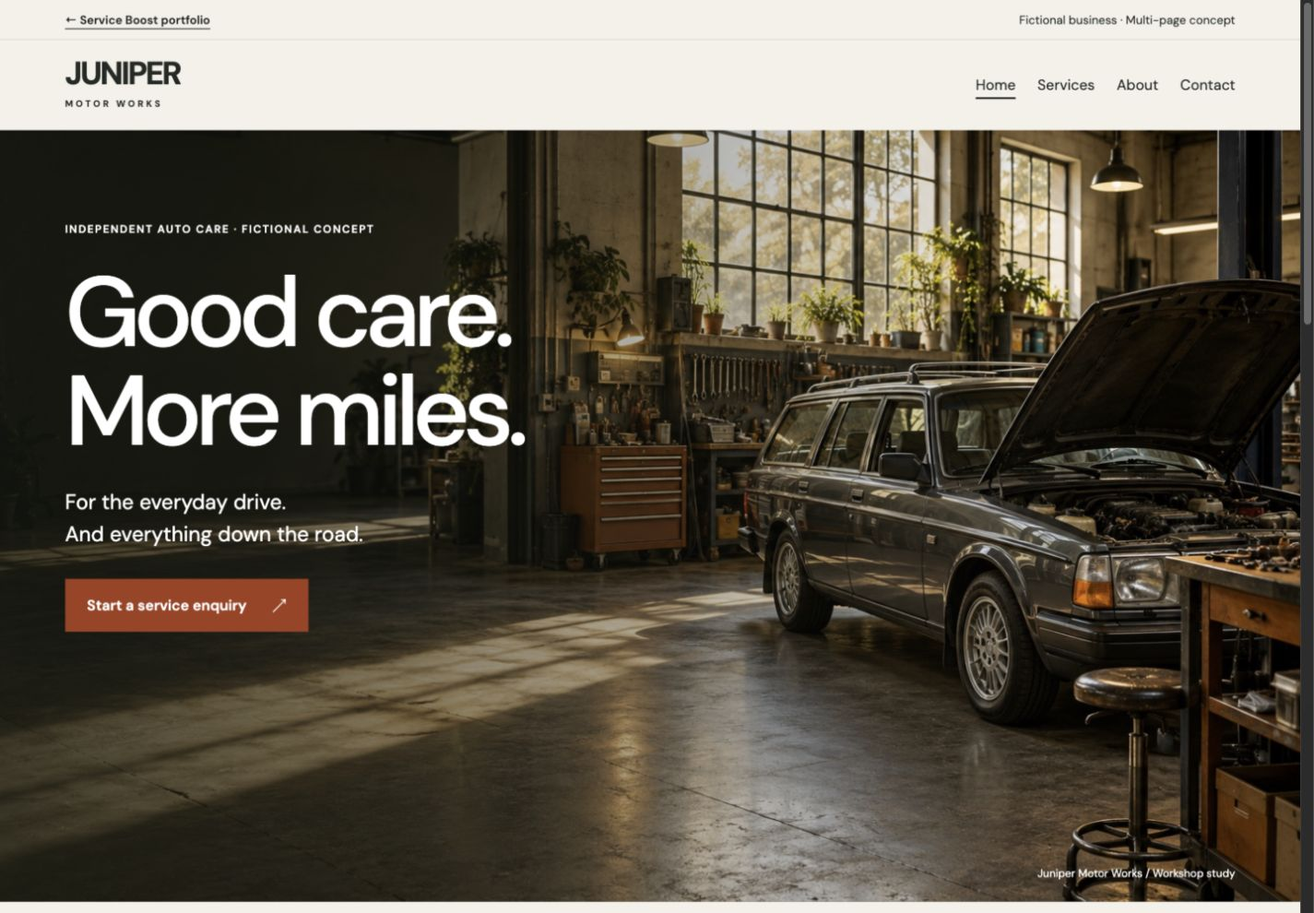
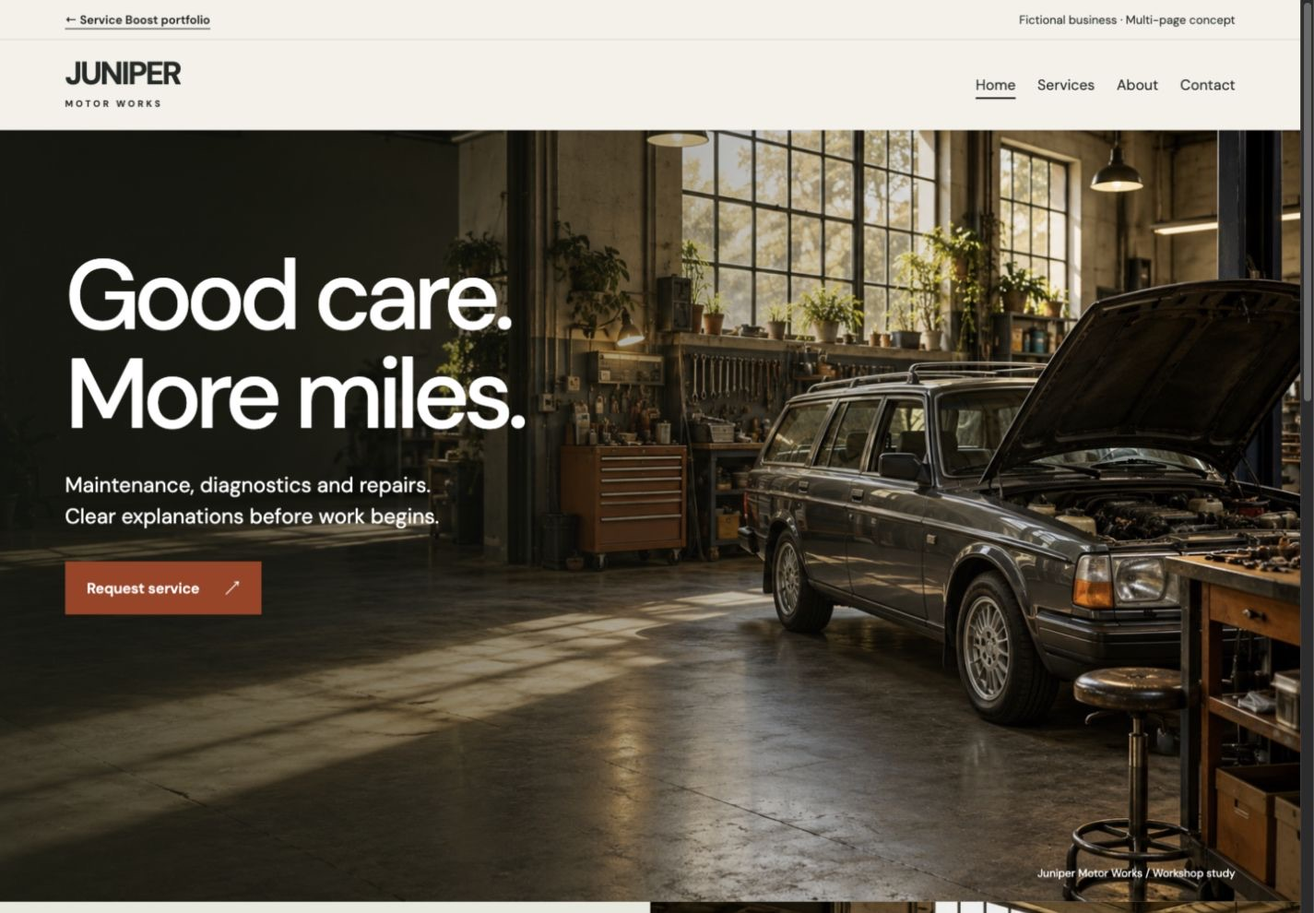
Refine Juniper request modal and add homepage portfolio carousel

diff --git a/auto-repair.css b/auto-repair.css
@@ -9,3 +9,65 @@
 @media(max-width:960px){.auto-theme .auto-header{flex-wrap:nowrap}.auto-theme .auto-header nav{order:initial;width:auto}.auto-hero{min-height:600px}.auto-contact{gap:45px}.auto-process{gap:40px}.auto-service-grid{gap:25px}}
 @media(max-width:720px){.auto-demo-bar{font-size:12px;display:block}.auto-demo-bar span{display:block;margin-top:7px}.auto-theme .auto-header{display:block;padding:16px 6% 6px}.auto-brand{font-size:30px}.auto-theme .auto-header nav{justify-content:space-between;gap:15px;margin-top:15px;font-size:15px}.auto-hero{height:calc(100svh - 208px);min-height:530px;max-height:720px}.auto-hero>img{object-position:62% center}.auto-hero:after{background:#1418118f}.auto-hero-copy{padding:38px 6% 65px}.auto-theme h1{font-size:64px}.auto-hero-copy>p:not(.auto-kicker){font-size:20px}.auto-caption{font-size:11px;left:6%;right:auto}.auto-section{padding:48px 6%}.auto-intro,.auto-process,.auto-faq,.auto-contact{grid-template-columns:1fr;gap:28px}.auto-service-grid{grid-template-columns:1fr;gap:28px}.auto-service-grid h3{margin-top:24px}.auto-service-grid p{max-width:none;margin-bottom:0}.auto-section-heading{display:block}.auto-section-heading h2{margin-bottom:20px}.auto-cta{display:block}.auto-cta .auto-button{margin-top:28px}.auto-footer{display:block;padding:40px 6%}.auto-footer p{margin:28px 0}.auto-page-intro h1{font-size:clamp(45px,11vw,64px)}.auto-page-intro>p:last-child{font-size:18px}.auto-page-intro br{display:none}.service-menu article{grid-template-columns:32px 1fr;gap:20px;padding:35px 0}.service-menu article>a{grid-column:2;justify-self:start}.service-menu h2{font-size:30px}.service-menu{padding-top:0}.auto-workshop img{height:340px}.auto-contact-detail{margin-top:32px}.auto-contact .auto-button{width:100%}.auto-theme dialog{padding:24px}.auto-theme dialog h2{font-size:30px}}
 @media(prefers-reduced-motion:reduce){.auto-hero-copy{animation:none}.auto-button{transition:none}.auto-button:hover{transform:none}}
+
+.auto-service-editorial{display:grid;grid-template-columns:1fr 1fr;background:#e6e9de}
+.auto-service-menu{padding:72px 10%}
+.auto-service-menu h2{margin:16px 0 36px}
+.auto-service-menu>a{display:flex;align-items:center;justify-content:space-between;gap:24px;border-top:1px solid #aeb6a6;padding:22px 0;text-decoration:none;transition:color .2s,padding .2s}
+.auto-service-menu>a:last-child{border-bottom:1px solid #aeb6a6}
+.auto-service-menu>a:hover{color:var(--accent);padding-left:8px}
+.auto-service-menu strong{display:block;font-size:25px;font-weight:500;letter-spacing:-.03em}
+.auto-service-menu small{display:block;font-size:16px;line-height:1.5;margin-top:6px;color:#50594e}
+.auto-service-editorial figure{position:relative;margin:0;min-height:560px;overflow:hidden}
+.auto-service-editorial img{width:100%;height:100%;position:absolute;object-fit:cover;object-position:75% center}
+.auto-service-editorial figcaption{position:absolute;bottom:0;left:0;right:0;padding:35px 28px 20px;background:linear-gradient(transparent,#141811bd);color:white;font-size:12px}
+.auto-process-simple{align-items:center;grid-template-columns:1fr 1.7fr;gap:50px}
+.auto-process-simple h2{margin:0;font-size:38px}
+.auto-process-simple ol{display:grid;grid-template-columns:repeat(3,1fr);gap:28px;list-style:none;padding:0;counter-reset:steps}
+.auto-process-simple li{padding:20px 0 0;margin:0;border-bottom:0;border-top:1px solid var(--line);counter-increment:steps}
+.auto-process-simple li:before{content:"0" counter(steps);display:block;font-size:12px;color:var(--accent);margin-bottom:18px}
+.auto-process-simple h3{font-size:20px;margin:0}
+@media(max-width:720px){.auto-service-editorial{grid-template-columns:1fr}.auto-service-menu{padding:48px 6%}.auto-service-editorial figure{min-height:340px}.auto-process-simple{grid-template-columns:1fr;gap:28px}.auto-process-simple ol{grid-template-columns:1fr;gap:0}.auto-process-simple li{display:flex;align-items:baseline;gap:20px;padding:20px 0}.auto-process-simple li:before{margin:0}.auto-process-simple h2{font-size:34px}}
+@media(prefers-reduced-motion:reduce){.auto-service-menu>a{transition:none}}
+.auto-theme .auto-request-dialog{width:min(520px,calc(100% - 32px));max-height:calc(100svh - 32px);padding:32px;border:0;background:#f4f1e9;color:#252a26;box-sizing:border-box;overflow:auto}
+.auto-request-dialog::backdrop{background:#141811b3;backdrop-filter:blur(4px)}
+.auto-theme .auto-request-dialog h2{font-size:32px;margin:0 48px 8px 0}
+.auto-request-dialog .auto-note{font-size:14px;margin:0 0 24px}
+.auto-theme .auto-modal-close{position:absolute;top:16px;right:16px;width:44px;height:44px;padding:0;background:transparent;color:#252a26;font-size:30px;border:0;cursor:pointer}
+.auto-request-dialog label{display:block;font-size:16px;margin-bottom:18px}
+.auto-request-dialog input,.auto-request-dialog select,.auto-request-dialog textarea{display:block;box-sizing:border-box;width:100%;margin-top:7px;padding:13px;font:inherit;font-size:16px;border:1px solid #adb3a5;border-radius:6px;background:#fffdf8;color:#252a26;min-height:48px}
+.auto-optional{font-size:14px;color:#50594e}
+.auto-request-dialog .auto-button{width:100%;border:0;border-radius:6px;cursor:pointer}
+.auto-request-dialog .demo-actions button{background:var(--accent);color:white;min-height:48px;border-radius:6px}
+body:has(.auto-request-dialog[open]){overflow:hidden}
+@media(max-width:720px){.auto-theme .auto-request-dialog{padding:24px}.auto-theme .auto-request-dialog h2{font-size:28px}}
+.auto-contact-entry{align-items:start;gap:7%;padding-top:48px}
+.auto-contact-entry h1{font-size:clamp(48px,5vw,76px);margin-top:22px}
+.auto-contact-entry .auto-contact-detail h2{font-size:27px}
+.auto-contact-detail ol{padding-left:22px;font-size:17px;line-height:1.8}
+.auto-form-panel{border:1px solid #d5d7ca;padding:30px;background:#fffdf8}
+.auto-form-panel h2{font-size:32px;margin:15px 0}
+.auto-form-panel .auto-note{margin-top:12px}
+.auto-form-panel label{font-size:16px}
+.auto-form-panel input,.auto-form-panel select,.auto-form-panel textarea{font-size:16px;color:#252a26}
+.auto-form-row{display:grid;grid-template-columns:1fr 1fr;gap:18px}
+.auto-form-panel .auto-button{width:100%;margin-top:8px}
+.auto-form-panel .demo-actions button{background:var(--accent);color:white;border-radius:0;min-height:48px}
+.auto-theme #demo-status{white-space:pre-line;overflow-wrap:anywhere;padding:24px;background:#e6e9de;line-height:1.65}
+@media(max-width:720px){
+ .auto-theme .auto-demo-bar{display:flex;align-items:center;padding:8px 6%;gap:10px;font-size:11px}
+ .auto-theme .auto-demo-bar span{margin:0;max-width:135px;text-align:right}
+ .auto-theme .auto-header{padding-top:12px}
+ .auto-theme .auto-header nav{margin-top:5px}
+ .auto-theme .auto-brand{font-size:25px}
+ .auto-theme .auto-brand span{font-size:8px;margin-top:3px}
+ .auto-theme .auto-hero{height:calc(100svh - 160px)}
+ .auto-theme .auto-page-intro{padding-top:30px;padding-bottom:30px}
+ .auto-contact-entry{padding-top:26px;gap:28px}
+ .auto-contact-entry h1{font-size:44px;margin:12px 0}
+ .auto-contact-entry aside>p:not(.auto-kicker){font-size:16px;margin-bottom:0}
+ .auto-contact-entry .auto-contact-detail,.auto-contact-entry aside>a{display:none}
+ .auto-form-panel{padding:20px}
+ .auto-form-panel h2{font-size:28px}
+ .auto-form-row{grid-template-columns:1fr;gap:0}
+}

diff --git a/site-ui.js b/site-ui.js
@@ -34,6 +34,39 @@ document.querySelectorAll('[data-open-project]').forEach(button => {
   });
 });
 
+const portfolioTrack = document.querySelector('#portfolio-track');
+if (portfolioTrack) {
+  const slides = [...portfolioTrack.querySelectorAll('.work-row')];
+  const previous = document.querySelector('[data-portfolio-prev]');
+  const next = document.querySelector('[data-portfolio-next]');
+  const count = document.querySelector('[data-portfolio-count]');
+  const position = slide => slide.getBoundingClientRect().left - portfolioTrack.getBoundingClientRect().left;
+  const current = () => slides.reduce((best, slide, index) =>
+    Math.abs(position(slide)) < Math.abs(position(slides[best])) ? index : best, 0);
+  const update = () => {
+    const index = current();
+    previous.disabled = index === 0;
+    next.disabled = index === slides.length - 1;
+    const label = `${index + 1} / ${slides.length}`;
+    if (count.textContent !== label) count.textContent = label;
+  };
+  const move = direction => {
+    const index = Math.max(0, Math.min(slides.length - 1, current() + direction));
+    portfolioTrack.scrollBy({left: position(slides[index]) - 6, behavior: 'instant'});
+  };
+  previous.addEventListener('click', () => move(-1));
+  next.addEventListener('click', () => move(1));
+  portfolioTrack.addEventListener('keydown', event => {
+    if (event.target !== portfolioTrack || !['ArrowLeft', 'ArrowRight'].includes(event.key)) return;
+    event.preventDefault();
+    move(event.key === 'ArrowRight' ? 1 : -1);
+  });
+  portfolioTrack.addEventListener('scroll', update, {passive: true});
+  window.addEventListener('resize', update);
+  document.querySelector('.portfolio-controls').hidden = false;
+  update();
+}
+
 const demoDialog = document.querySelector('#demo-dialog');
 const demoForm = document.querySelector('#demo-form');
 const demoStatus = document.querySelector('#demo-status');
@@ -56,6 +89,31 @@ document.querySelectorAll('[data-open-demo]').forEach(button => {
   });
 });
 if (demoDialog) demoDialog.addEventListener('close', resetDemo);
+// Juniper links retain their normal destination when JavaScript is unavailable.
+if (demoDialog && document.querySelector('.auto-request-dialog')) {
+  document.querySelectorAll('a[href]').forEach(link => {
+    const target = new URL(link.href, location.href);
+    if (target.origin !== location.origin || target.pathname !== '/auto-repair/contact') return;
+    link.addEventListener('click', event => {
+      if (event.ctrlKey || event.metaKey || event.shiftKey || event.altKey) return;
+      event.preventDefault();
+      resetDemo();
+      const service = target.searchParams.get('service');
+      if (['maintenance', 'diagnostics', 'repair'].includes(service)) demoForm.elements.namedItem('service').value = service;
+      demoDialog.showModal();
+    });
+  });
+  demoDialog.addEventListener('click', event => {
+    const bounds = demoDialog.getBoundingClientRect();
+    if (event.target === demoDialog && (event.clientX < bounds.left || event.clientX > bounds.right || event.clientY < bounds.top || event.clientY > bounds.bottom)) demoDialog.close();
+  });
+  if (location.pathname.replace(/\/$/, '') === '/auto-repair/contact') {
+    resetDemo();
+    demoDialog.showModal();
+  }
+}
+// Inline demos need the same allowlisted selection as modal demos.
+if (demoForm && !demoDialog) resetDemo();
 document.querySelector('[data-edit-demo]')?.addEventListener('click', () => {
   demoForm.hidden = false;
   demoStatus.hidden = true;
@@ -70,7 +128,27 @@ if (demoForm) demoForm.addEventListener('submit', event => {
   event.preventDefault();
   demoForm.hidden = true;
   demoStatus.hidden = false;
-  demoStatus.textContent = 'Preview complete. Nothing was sent, saved or booked. This is a fictional business demonstration.';
+  const value = name => demoForm.elements.namedItem(name)?.value.trim() || '';
+  const selected = name => {
+    const field = demoForm.elements.namedItem(name);
+    return field?.selectedOptions?.[0]?.textContent || value(name);
+  };
+  let summary;
+  if (demoForm.elements.namedItem('vehicle')) {
+    summary = selected('service') + ' · ' + value('vehicle')
+      + (value('demo_details') ? '\n' + value('demo_details') : '');
+  } else if (demoForm.elements.namedItem('appointment')) {
+    summary = 'Your sample booking request\n\n' + selected('service') + '\n' + selected('appointment')
+      + '\n\nExample next step\nA live scheduler would confirm availability and appointment details. These are sample times, not a reserved appointment.';
+  } else {
+    summary = 'Your sample project request\n\n' + selected('project_type') + ' · ' + value('project_city')
+      + '\n' + value('demo_details')
+      + '\n\nExample next step\nA landscape team would check the service area and project fit, then arrange a conversation before preparing an estimate.';
+  }
+  // Sample input is text, never markup, and remains only in this page.
+  demoStatus.textContent = summary + (demoForm.elements.namedItem('vehicle')
+    ? '\n\nDemo preview only. Nothing was sent or booked.'
+    : '\n\nNothing was sent, saved or booked. This is a fictional business demonstration.');
   if (demoActions) demoActions.hidden = false;
   demoStatus.focus();
 });

diff --git a/auto-repair.html b/auto-repair.html
@@ -7,11 +7,15 @@
 <a href="/auto-repair/contact" data-preserve-ref>Contact</a></nav></header>
 <main id="home"><section class="auto-hero">
 <img src="/assets/auto-workshop.jpg" alt="Illustrated concept of a sunlit workshop with a graphite station wagon" width="1536" height="1024">
-<div class="auto-hero-copy"><p class="auto-kicker">Independent auto care · Fictional concept</p><h1>Good care.<br>More miles.</h1><p>For the everyday drive.<br>And everything down the road.</p><a class="auto-button" href="/auto-repair/contact" data-preserve-ref>Start a service enquiry <span aria-hidden="true">↗</span></a></div>
+<div class="auto-hero-copy"><h1>Good care.<br>More miles.</h1><p>Maintenance, diagnostics and repairs.<br>Clear explanations before work begins.</p><a class="auto-button" href="/auto-repair/contact" data-preserve-ref>Request service <span aria-hidden="true">↗</span></a></div>
 <p class="auto-caption">Juniper Motor Works / Workshop study</p>
 </section>
-<section class="auto-section auto-intro"><p class="auto-kicker">A little attention goes a long way.</p><div><h2>Your car has a job to do.<br>Let’s keep it moving.</h2><p>From routine maintenance to that unfamiliar noise, start with a conversation about what your car needs.</p></div></section>
-<section class="auto-section auto-services"><div class="auto-section-heading"><h2>The everyday essentials.</h2><a href="/auto-repair/services" data-preserve-ref>Explore all services <span aria-hidden="true">↗</span></a></div>
-<div class="auto-service-grid"><article><span class="auto-number">01 / MAINTAIN</span><h3>Stay a step ahead.</h3><p>Oil changes, fluid checks and scheduled maintenance.</p></article><article><span class="auto-number">02 / DIAGNOSE</span><h3>Find the cause.</h3><p>Warning lights, starting issues and unfamiliar sounds.</p></article><article><span class="auto-number">03 / REPAIR</span><h3>Get back to the drive.</h3><p>Brakes, batteries and the parts that keep you moving.</p></article></div><p class="auto-note">Sample services for this fictional workshop.</p></section>
-<section class="auto-section auto-process"><div><p class="auto-kicker">Clear from the first conversation</p><h2>Less guesswork.<br>More understanding.</h2><a href="/auto-repair/about" data-preserve-ref>Meet the workshop concept ↗</a></div><ol><li><h3>Tell us what you’re noticing.</h3><p>Your car, your concerns and what has changed.</p></li><li><h3>Understand the next step.</h3><p>A conversation about inspection, options and an estimate.</p></li><li><h3>Decide what works for you.</h3><p>Review the proposed work before giving the go-ahead.</p></li></ol></section><section class="auto-section auto-cta"><div><p class="auto-kicker">A clear next step</p><h2>What brings you in?</h2></div><a class="auto-button" href="/auto-repair/contact" data-preserve-ref>Start a service enquiry ↗</a></section></main>
+<section class="auto-service-editorial" aria-labelledby="auto-services-heading">
+<div class="auto-service-menu"><p class="auto-kicker">Sample services</p><h2 id="auto-services-heading">Keep life<br>moving.</h2>
+<a href="/auto-repair/contact?service=maintenance" data-preserve-ref><span><strong>Maintenance</strong><small>Oil, fluids &amp; scheduled care</small></span><span aria-hidden="true">↗</span></a>
+<a href="/auto-repair/contact?service=diagnostics" data-preserve-ref><span><strong>Diagnostics</strong><small>Warning lights &amp; unfamiliar sounds</small></span><span aria-hidden="true">↗</span></a>
+<a href="/auto-repair/contact?service=repair" data-preserve-ref><span><strong>Repairs</strong><small>Brakes, batteries &amp; more</small></span><span aria-hidden="true">↗</span></a>
+</div><figure><img src="/assets/auto-workshop.jpg" alt="Illustrated Juniper workshop with a station wagon and tools" width="1536" height="1024" loading="lazy"><figcaption>The Juniper workshop concept</figcaption></figure>
+</section>
+<section class="auto-section auto-process auto-process-simple"><h2>Know what’s next.</h2><ol><li><h3>Share the concern.</h3></li><li><h3>Review the estimate.</h3></li><li><h3>Approve the work.</h3></li></ol></section><section class="auto-section auto-cta"><div><h2>What brings you in?</h2></div><a class="auto-button" href="/auto-repair/contact" data-preserve-ref>Request service ↗</a></section></main>
 <footer class="auto-footer"><a class="auto-brand" href="/auto-repair" data-preserve-ref>JUNIPER<span>MOTOR WORKS</span></a><p>A fictional business and design demonstration.<br>No real services, appointments or client results.</p><a href="/#examples" data-preserve-ref>Explore Service Boost ↗</a></footer><script src="/site-ui.js"></script></body></html>

diff --git a/auto-repair/contact.html b/auto-repair/contact.html
@@ -5,9 +5,19 @@
 <a href="/auto-repair/services" data-preserve-ref>Services</a>
 <a href="/auto-repair/about" data-preserve-ref>About</a>
 <a href="/auto-repair/contact" data-preserve-ref aria-current="page">Contact</a></nav></header>
-<main id="home"><section class="auto-page-intro auto-section"><p class="auto-kicker">03 / Contact · Interactive demonstration</p><h1>Let’s talk <br>about your car.</h1><p>A little context makes a good starting point.</p></section>
-<section class="auto-section auto-contact"><aside><h2>Start here.</h2><p>Tell us about the vehicle and what you’re noticing.</p><div class="auto-disclosure"><h3>This is a demo.</h3><p>Juniper is a fictional business. Please use sample information. Nothing will be sent, saved or booked.</p><p>No real workshop, phone number or opening hours are represented.</p></div><a href="/auto-repair/services" data-preserve-ref>← Back to services</a></aside>
-<div><button type="button" class="auto-button" data-open-demo>Try the enquiry form <span aria-hidden="true">↗</span></button><p class="auto-note">Preview the form and confirmation. No appointment is made.</p><div class="auto-contact-detail"><h3>A helpful first enquiry includes</h3><ul><li>Your vehicle’s year, make and model</li><li>The service or symptom you have in mind</li><li>When you first noticed the issue</li></ul></div></div></section>
-<dialog id="demo-dialog" aria-labelledby="demo-heading"><form method="dialog"><button class="close">Close</button></form><p class="auto-kicker">Demo enquiry</p><h2 id="demo-heading">What brings you in?</h2><p>Use sample information. Nothing will be sent, saved or booked.</p>
-<form id="demo-form" method="dialog"><label>Service<select name="service" required><option value="">Select a service</option><option value="maintenance">Maintenance</option><option value="diagnostics">Diagnostics</option><option value="repair">Repair &amp; replacement</option><option value="unsure">Not sure yet</option></select></label><label>Vehicle<input name="vehicle" placeholder="e.g. 2018 hatchback" maxlength="120" required autocomplete="off"></label><label>Name<input name="demo_name" autocomplete="off" maxlength="120" required></label><label>Email<input name="demo_email" type="email" autocomplete="off" maxlength="254" required></label><label>What are you noticing?<textarea name="demo_details" rows="3" maxlength="2000" required></textarea></label><button type="submit">Preview enquiry</button></form><p id="demo-status" role="status" tabindex="-1" hidden></p><div class="demo-actions" hidden><button type="button" data-edit-demo>Back to form</button><button type="button" data-reset-demo>Start again</button></div></dialog></main>
+<main id="home">
+<section class="auto-section auto-page-intro"><h1>Let’s talk about your car.</h1><button class="auto-button" type="button" data-open-demo>Request service ↗</button></section></main>
+<!-- auto-request-start -->
+<dialog id="demo-dialog" class="auto-request-dialog" aria-labelledby="demo-heading" aria-describedby="auto-demo-note">
+<form method="dialog"><button class="auto-modal-close" aria-label="Close service request">×</button></form>
+<h2 id="demo-heading">Request service</h2><p id="auto-demo-note" class="auto-note">Demo only. Nothing will be sent, saved or booked.</p>
+<form id="demo-form" method="dialog">
+<label>Service<select name="service" required autofocus><option value="unsure">Not sure yet</option><option value="maintenance">Maintenance</option><option value="diagnostics">Diagnostics</option><option value="repair">Repair &amp; replacement</option></select></label>
+<label>Vehicle<input name="vehicle" placeholder="e.g. 2018 Honda Civic" maxlength="120" required autocomplete="off"></label>
+<label>What’s happening? <span class="auto-optional">(optional)</span><textarea name="demo_details" placeholder="Tell us briefly…" rows="2" maxlength="2000"></textarea></label>
+<button class="auto-button" type="submit">Preview request <span aria-hidden="true">↗</span></button>
+</form>
+<p id="demo-status" role="status" tabindex="-1" hidden></p><div class="demo-actions" hidden><button type="button" data-edit-demo>Edit request</button><button type="button" data-reset-demo>Start again</button></div>
+</dialog>
+<!-- auto-request-end -->
 <footer class="auto-footer"><a class="auto-brand" href="/auto-repair" data-preserve-ref>JUNIPER<span>MOTOR WORKS</span></a><p>A fictional business and design demonstration.<br>No real services, appointments or client results.</p><a href="/#examples" data-preserve-ref>Explore Service Boost ↗</a></footer><script src="/site-ui.js"></script></body></html>

diff --git a/index.html b/index.html
@@ -23,7 +23,7 @@
   <meta name="twitter:image:alt" content="Service Boost homepage: A better website. A clear next step. Website builds, repairs and practical support for small businesses, with Kyle Stephens.">
   <link rel="icon" href="favicon.svg" type="image/svg+xml">
   <link rel="stylesheet" href="style.css?v=portfolio-2">
-  <link rel="stylesheet" href="homepage.css?v=1">
+<link rel="stylesheet" href="homepage.css?v=2">
 </head>
 <body>
 <div class="service">
@@ -66,30 +66,35 @@
 <h2 id="examples-heading">Selected examples</h2>
 <p>Fictional businesses · Design demonstrations</p>
 </div>
-<div class="examples-grid">
-<article class="work-row">
+<div class="portfolio-controls" hidden>
+<button type="button" data-portfolio-prev aria-label="Previous example" aria-controls="portfolio-track">←</button>
+<span data-portfolio-count aria-live="polite" aria-atomic="true">1 / 3</span>
+<button type="button" data-portfolio-next aria-label="Next example" aria-controls="portfolio-track">→</button>
+</div>
+<div class="examples-grid" id="portfolio-track" tabindex="0" role="region" aria-roledescription="carousel" aria-label="Selected portfolio examples">
+<article class="work-row" role="group" aria-roledescription="slide" aria-label="1 of 3: Landscape design concept">
 <a href="/landscape" data-preserve-ref aria-label="Explore Landscape design concept">
 <img src="/assets/landscape-preview.jpg" alt="Landscape design website preview" width="600" height="420" loading="lazy"/>
 </a>
 <div>
 <h3>Landscape design concept</h3>
-<p>Single page · Services, project detail &amp; enquiry</p>
+<p>From project inspiration to a useful estimate request.</p>
 <a class="explore-link" href="/landscape" data-preserve-ref aria-label="Explore landscape design concept">Explore concept <span aria-hidden="true">→</span></a>
 </div>
 </article>
-<article class="work-row">
+<article class="work-row" role="group" aria-roledescription="slide" aria-label="2 of 3: Hair studio concept">
 <a href="/salon" data-preserve-ref aria-label="Explore Hair studio concept">
 <img src="/assets/salon-preview.jpg" alt="Hair studio website preview" width="600" height="420" loading="lazy"/>
 </a>
 <div>
 <h3>Hair studio concept</h3>
-<p>Single page · Service menu &amp; booking demo</p>
+<p>From choosing a service to a clear booking handoff.</p>
 <a class="explore-link" href="/salon" data-preserve-ref aria-label="Explore hair studio concept">Explore concept <span aria-hidden="true">→</span></a>
 </div>
 </article>
-<article class="work-row auto-work-row">
+<article class="work-row" role="group" aria-roledescription="slide" aria-label="3 of 3: Juniper Motor Works">
 <a href="/auto-repair" data-preserve-ref aria-label="Explore Auto repair multi-page concept"><img src="/assets/auto-preview.jpg" alt="Juniper Motor Works auto repair website preview" width="1440" height="1000" loading="lazy"></a>
-<div><p class="eyebrow">Multi-page concept</p><h3>Juniper Motor Works</h3><p>Auto repair · Home, services, about &amp; contact</p><a class="explore-link" href="/auto-repair" data-preserve-ref>Explore auto repair concept <span aria-hidden="true">→</span></a></div>
+<div><p class="eyebrow">Multi-page concept</p><h3>Juniper Motor Works</h3><p>From car trouble to an organized service inquiry.</p><a class="explore-link" href="/auto-repair" data-preserve-ref>Explore auto repair concept <span aria-hidden="true">→</span></a></div>
 </article>
 </div>
 </section>

diff --git a/auto-repair/services.html b/auto-repair/services.html
@@ -10,5 +10,5 @@
 <article><span class="auto-number">01</span><div><h2>Maintenance</h2><p>The small jobs that keep your everyday drive on track.</p><ul><li>Oil and filter changes</li><li>Fluid and filter checks</li><li>Scheduled maintenance review</li></ul></div><a href="/auto-repair/contact?service=maintenance" data-preserve-ref>Ask about maintenance ↗</a></article>
 <article><span class="auto-number">02</span><div><h2>Diagnostics</h2><p>Start with the symptoms and work toward a clear explanation.</p><ul><li>Dashboard warning lights</li><li>Starting and charging concerns</li><li>Unusual noises or changes in performance</li></ul></div><a href="/auto-repair/contact?service=diagnostics" data-preserve-ref>Ask about diagnostics ↗</a></article>
 <article><span class="auto-number">03</span><div><h2>Repair &amp; replacement</h2><p>A considered approach to the parts your vehicle depends on.</p><ul><li>Brake inspection and repair</li><li>Battery checks and replacement</li><li>Steering and suspension concerns</li></ul></div><a href="/auto-repair/contact?service=repair" data-preserve-ref>Ask about a repair ↗</a></article></section>
-<section class="auto-section auto-faq"><h2>Before you enquire.</h2><div><details><summary>Not sure which service to choose?</summary><p>Choose “Not sure yet” in the demo enquiry. Describe what you’ve noticed, when it happens and any warning lights.</p></details><details><summary>Where are the prices?</summary><p>This is a fictional service menu. A real workshop would confirm inspection needs and an estimate for your vehicle before work begins.</p></details><details><summary>Can I book an appointment here?</summary><p>No. This portfolio demo previews an enquiry only. Nothing is sent, saved or booked.</p></details></div></section><section class="auto-section auto-cta"><div><p class="auto-kicker">A clear next step</p><h2>What brings you in?</h2></div><a class="auto-button" href="/auto-repair/contact" data-preserve-ref>Start a service enquiry ↗</a></section></main>
+<section class="auto-section auto-faq"><h2>Before you get started.</h2><div><details><summary>Not sure which service to choose?</summary><p>Choose “Not sure yet” in the demo enquiry. Describe what you’ve noticed, when it happens and any warning lights.</p></details><details><summary>Where are the prices?</summary><p>This is a fictional service menu. A real workshop would confirm inspection needs and an estimate for your vehicle before work begins.</p></details><details><summary>Can I book an appointment here?</summary><p>No. This portfolio demo previews an enquiry only. Nothing is sent, saved or booked.</p></details></div></section><section class="auto-section auto-cta"><div><p class="auto-kicker">A clear next step</p><h2>What brings you in?</h2></div><a class="auto-button" href="/auto-repair/contact" data-preserve-ref>Request service ↗</a></section></main>
 <footer class="auto-footer"><a class="auto-brand" href="/auto-repair" data-preserve-ref>JUNIPER<span>MOTOR WORKS</span></a><p>A fictional business and design demonstration.<br>No real services, appointments or client results.</p><a href="/#examples" data-preserve-ref>Explore Service Boost ↗</a></footer><script src="/site-ui.js"></script></body></html>

diff --git a/homepage.css b/homepage.css
@@ -35,14 +35,16 @@
 .work-heading { display: flex; align-items: center; justify-content: space-between; gap: 24px; margin-bottom: 30px; }
 .service .work-heading h2 { margin: 0; }
 .work-heading p { font-size: 16px; margin: 0; }
-.examples-grid { display: grid; grid-template-columns: 1fr 1fr; gap: 28px; }
-.work-row { margin: 0; }
+.examples-grid { display: flex; gap: 28px; overflow-x: auto; scroll-snap-type: x mandatory; scrollbar-width: thin; padding: 6px 6px 20px; }
+.examples-grid:focus-visible { outline: 3px solid var(--brand-blue); outline-offset: 5px; }
+.portfolio-controls { display: flex; justify-content: flex-end; align-items: center; gap: 20px; margin-bottom: 20px; }
+.service .portfolio-controls button { padding: 10px; min-width: 48px; min-height: 48px; font-size: 24px; line-height: 1; }
+.portfolio-controls button:disabled { opacity: .35; cursor: default; }
+.portfolio-controls span { font-size: 16px; font-variant-numeric: tabular-nums; }
+.work-row { margin: 0; flex: 0 0 100%; min-width: 0; scroll-snap-align: start; display: grid; grid-template-columns: 1.45fr 1fr; gap: 36px; align-items: center; }
 .work-row > a { display: block; border-radius: 5px; overflow: hidden; }
-.work-row img { width: 100%; height: auto; aspect-ratio: 1.15; object-fit: contain; object-position: top; }
-.work-row > div { padding: 16px 0 0; }
-.auto-work-row { grid-column: 1 / -1; display: grid; grid-template-columns: 1.2fr 1fr; gap: 36px; align-items: center; padding-top: 14px; }
-.auto-work-row img { aspect-ratio: 1.44; object-fit: cover; }
-.auto-work-row > div { padding: 0; }
+.work-row img { width: 100%; height: auto; aspect-ratio: 1.44; object-fit: cover; object-position: top; }
+.work-row > div { padding: 0 6px 0 0; }
 .work-row p { font-size: 18px; margin: 0 0 12px; }
 .explore-link { display: inline-flex; align-items: center; gap: 5px; min-height: 44px; font-size: 18px; font-weight: 600; color: var(--brand-blue); text-decoration: none; }
 .explore-link:hover { text-decoration: underline; }
@@ -92,7 +94,7 @@
   .service .hero-profile h2 { font-size: 24px; }
   .service h2 { font-size: 32px; }
   .process-section, .examples, .faq-section { padding: 38px 6%; }
-  .process-grid, .examples-grid { grid-template-columns: 1fr; gap: 28px; }
+  .process-grid { grid-template-columns: 1fr; gap: 28px; }
   .process-grid li { padding: 24px 0 0; border-left: 0; border-top: 1px solid var(--divider); }
   .process-grid li:first-child { padding-top: 0; }
   .step-number { font-size: 34px; margin-bottom: 10px; }
@@ -101,8 +103,8 @@
   .service .work-heading h2 { margin-bottom: 14px; }
   .work-heading p { font-size: 14px; }
   .examples-grid { gap: 32px; }
-  .auto-work-row { display: block; padding: 0; }
-  .auto-work-row > div { padding-top: 16px; }
+  .work-row { display: block; padding: 0; }
+  .work-row > div { padding-top: 20px; }
   .service h3 { font-size: 23px; }
   .quote-band { display: block; padding: 24px; }
   .service .quote-band h2 { font-size: 26px; }

diff --git a/auto-repair/about.html b/auto-repair/about.html
@@ -8,5 +8,5 @@
 <main id="home"><section class="auto-page-intro auto-section"><p class="auto-kicker">02 / The workshop · Fictional brand</p><h1>A neighborhood shop. <br>A thoughtful approach.</h1><p>Juniper Motor Works imagines auto care built around <br>good conversations and attention to the details.</p></section>
 <figure class="auto-workshop"><img src="/assets/auto-workshop.jpg" alt="AI-generated workshop concept with a station wagon, tools and sunlit windows" width="1536" height="1024"><figcaption>Workshop atmosphere study · AI-generated concept image, not a real location.</figcaption></figure>
 <section class="auto-section auto-intro"><p class="auto-kicker">The idea behind Juniper</p><div><h2>Cars are complicated.<br>The conversation shouldn’t be.</h2><p>Plain-language explanations. Room for questions. A clear next step. That’s the experience this fictional workshop is designed to represent.</p></div></section>
-<section class="auto-section auto-services"><div class="auto-service-grid"><article><span class="auto-number">01 / LISTEN</span><h3>Start with the driver.</h3><p>What you notice about your car is the beginning of the conversation.</p></article><article><span class="auto-number">02 / EXPLAIN</span><h3>Make the details clear.</h3><p>Help people understand the proposed work and their options.</p></article><article><span class="auto-number">03 / RESPECT</span><h3>Leave room to decide.</h3><p>A useful estimate gives people the information to choose their next step.</p></article></div></section><section class="auto-section auto-cta"><div><p class="auto-kicker">A clear next step</p><h2>What brings you in?</h2></div><a class="auto-button" href="/auto-repair/contact" data-preserve-ref>Start a service enquiry ↗</a></section></main>
+<section class="auto-section auto-services"><div class="auto-service-grid"><article><span class="auto-number">01 / LISTEN</span><h3>Start with the driver.</h3><p>What you notice about your car is the beginning of the conversation.</p></article><article><span class="auto-number">02 / EXPLAIN</span><h3>Make the details clear.</h3><p>Help people understand the proposed work and their options.</p></article><article><span class="auto-number">03 / RESPECT</span><h3>Leave room to decide.</h3><p>A useful estimate gives people the information to choose their next step.</p></article></div></section><section class="auto-section auto-cta"><div><p class="auto-kicker">A clear next step</p><h2>What brings you in?</h2></div><a class="auto-button" href="/auto-repair/contact" data-preserve-ref>Request service ↗</a></section></main>
 <footer class="auto-footer"><a class="auto-brand" href="/auto-repair" data-preserve-ref>JUNIPER<span>MOTOR WORKS</span></a><p>A fictional business and design demonstration.<br>No real services, appointments or client results.</p><a href="/#examples" data-preserve-ref>Explore Service Boost ↗</a></footer><script src="/site-ui.js"></script></body></html>

diff --git a/landscape.html b/landscape.html
@@ -58,7 +58,7 @@
 <p>Design study only. No client commission or completed construction is represented.</p>
 <dl class="project-facts"><div><dt>Palette</dt><dd>Olive, sage and warm stone</dd></div><div><dt>Design idea</dt><dd>Connected terraces for gathering and quiet moments</dd></div></dl>
 </dialog>
-<section class="concept-contact" id="contact"><div><p class="eyebrow">Your next chapter, outside</p><h2>What do you have<br>in mind?</h2></div><div><p>Explore an estimate enquiry for your garden, planting or outdoor living project.</p><button type="button" data-open-demo>Try the estimate enquiry</button><p class="demo-note">Fictional business. This form is a demonstration only.</p></div></section>
+<section class="concept-contact" id="contact"><div><p class="eyebrow">Your next chapter, outside</p><h2>What do you have<br>in mind?</h2></div><div><p>Explore an estimate inquiry for your garden, planting or outdoor living project.</p><button type="button" data-open-demo>Try the estimate inquiry</button><p class="demo-note">Fictional business. This form is a demonstration only.</p></div></section>
 </main>
 <footer>Native plants · Thoughtful spaces · A more livable tomorrow<p>Fictional business · Design demonstration by <a href="/" data-preserve-ref>Service Boost</a>
 </p>
@@ -72,6 +72,8 @@
 <h2 id="demo-heading">Tell us about your space.</h2>
 <p>Demo only. Please use sample information. Nothing will be sent, saved or booked.</p>
 <form id="demo-form" method="dialog">
+<label>Project type<select name="project_type" required><option value="">Choose a project</option><option>Landscape design</option><option>Planting &amp; renewal</option><option>Outdoor living</option><option>Not sure yet</option></select></label>
+<label>City or ZIP code<input name="project_city" placeholder="e.g. Walnut Creek" maxlength="120" autocomplete="off" required></label>
 <label>Name<input name="demo_name" autocomplete="off" required>
 </label>
 <label>Email<input name="demo_email" type="email" autocomplete="off" required>

diff --git a/concepts.css b/concepts.css
@@ -4,3 +4,5 @@
 @keyframes concept-reveal{from{opacity:.6}to{opacity:1}}
 @media(max-width:720px){.concept-services,.concept-contact{grid-template-columns:1fr;gap:30px;padding:45px 6%}.concept-services h2,.concept-contact h2,.salon-about h2{font-size:43px}.concept-services>div>p:not(.eyebrow){max-width:none}.salon-services{padding-top:35px;padding-bottom:40px}.salon-services .menu-heading{font-size:38px}.salon-about{padding:45px 6%}.salon-about p:not(.eyebrow){font-size:18px}.salon-hero{height:620px;min-height:0}.salon-hero h1{font-size:clamp(64px,19vw,90px);margin:30px 0}.salon-hero>div{background:linear-gradient(90deg,#1b1b19c9,transparent 95%)}.concept-page header{padding:14px 5% 6px}.concept-page header nav{justify-content:space-between;gap:12px}.concept-page header>button{display:none}.concept-page header .brand{font-size:29px}.concept-page .land-photo{height:260px}html:has(.concept-page){scroll-padding-top:130px}}
 @media(prefers-reduced-motion:reduce){.land-photo img,.salon-hero>img{animation:none}.concept-page button{transition:none}}
+/* Demo summaries preserve sample text without rendering it as markup. */
+.concept-page #demo-status{white-space:pre-line;overflow-wrap:anywhere;line-height:1.6;border-top:1px solid currentColor;padding-top:24px}

diff --git a/test_site.py b/test_site.py
@@ -1,6 +1,8 @@
 """Static integration contracts for the production site and isolated demos."""
 from html.parser import HTMLParser
 from pathlib import Path
+import subprocess
+import sys
 import unittest
 
 ROOT = Path(__file__).resolve().parent
@@ -19,6 +21,19 @@ class Page(HTMLParser):
 
 
 class SiteContracts(unittest.TestCase):
+    def test_build_includes_one_isolated_request_dialog_on_every_auto_page(self):
+        subprocess.run([sys.executable, str(ROOT / 'build-site.py')], check=True)
+        for filename in CONCEPTS[2:]:
+            page = Page('public-site/' + filename)
+            ids = [attrs['id'] for _, attrs in page.nodes if 'id' in attrs]
+            self.assertEqual(len(ids), len(set(ids)), filename)
+            self.assertEqual(ids.count('demo-dialog'), 1, filename)
+            self.assertEqual(ids.count('demo-form'), 1, filename)
+            self.assertNotIn('request-form', ids)
+            self.assertEqual([a['src'] for t, a in page.nodes if t == 'script'], ['/site-ui.js'])
+            self.assertTrue(all(a.get('method') == 'dialog' and not a.get('action')
+                                for t, a in page.nodes if t == 'form'))
+
     def test_main_has_one_production_form_and_one_script_instance(self):
         page = Page('index.html')
         ids = [attrs['id'] for _, attrs in page.nodes if 'id' in attrs]

diff --git a/build-site.py b/build-site.py
@@ -11,3 +11,10 @@ for name in ('index.html', 'landscape.html', 'salon.html', 'auto-repair.html', '
     shutil.copyfile(root / name, output / name)
 shutil.copytree(root / 'assets', output / 'assets')
 shutil.copytree(root / 'auto-repair', output / 'auto-repair')
+
+# Keep one authoritative Juniper request dialog; include it on every entry page.
+contact = (root / 'auto-repair/contact.html').read_text()
+dialog = contact.split('<!-- auto-request-start -->', 1)[1].split('<!-- auto-request-end -->', 1)[0]
+for name in ('auto-repair.html', 'auto-repair/services.html', 'auto-repair/about.html'):
+    page = output / name
+    page.write_text(page.read_text().replace('<script src="/site-ui.js">', dialog + '<script src="/site-ui.js">'))
